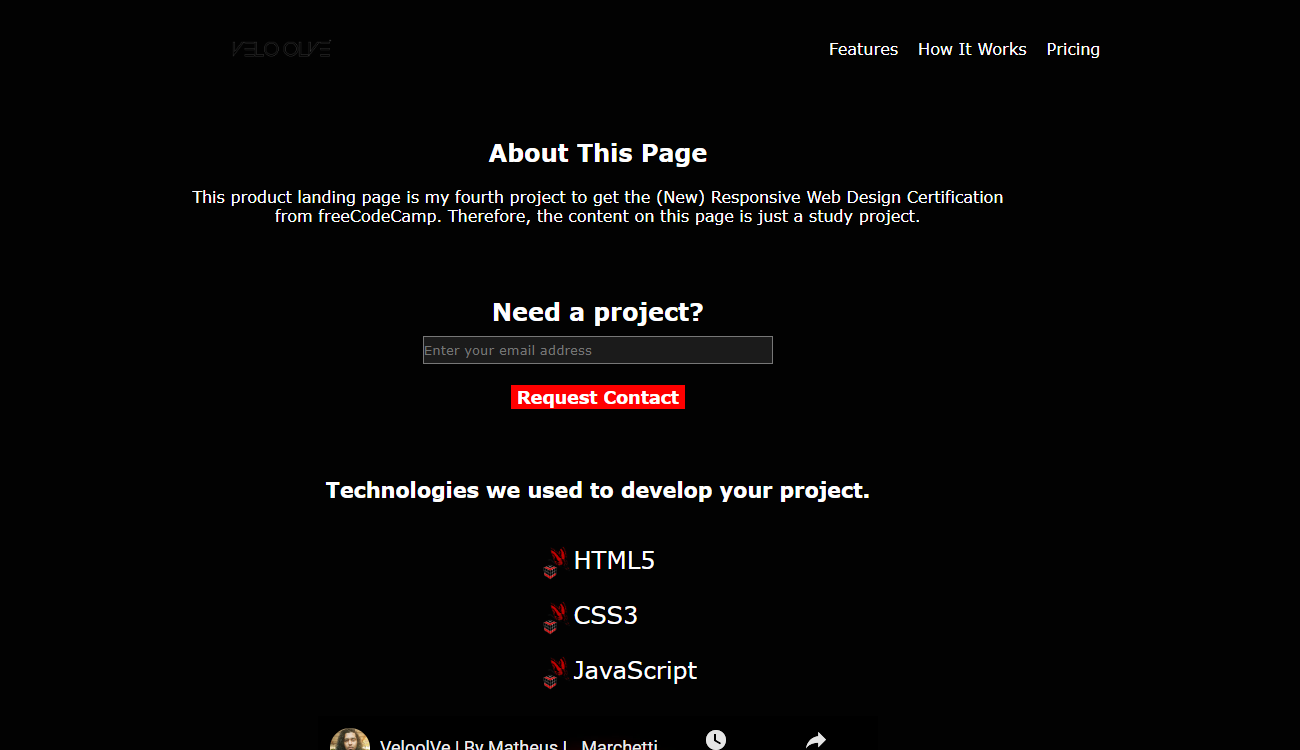
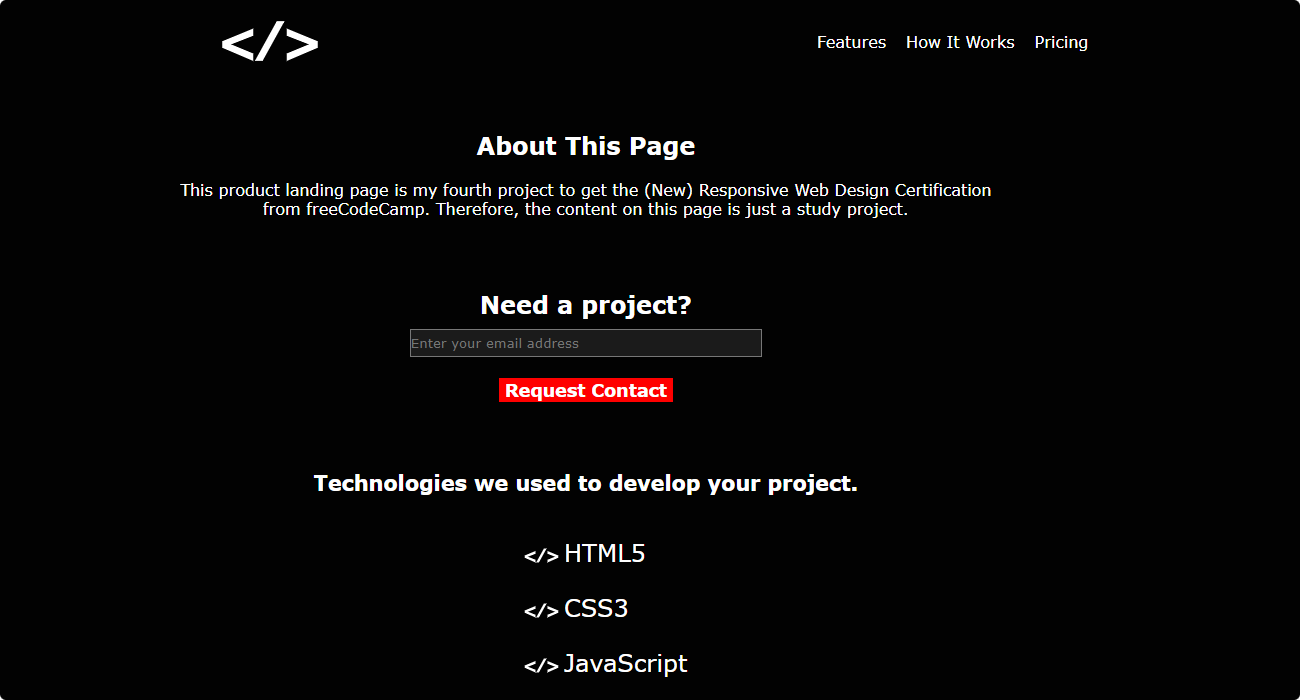
Updates

diff --git a/personal-portfolio-webpage/index.html b/personal-portfolio-webpage/index.html
@@ -4,13 +4,50 @@
     <meta charset="UTF-8">
     <meta http-equiv="X-UA-Compatible" content="IE=edge">
     <meta name="viewport" content="width=device-width, initial-scale=1.0">
-    <link rel="shortcut icon" href="images/simbolo-veloolve-28x28.ico" type="image/x-icon">
+    <link rel="shortcut icon" href="images/favicon.ico" type="image/x-icon">
     <link rel="stylesheet" href="style.css">
     <title>Personal Portfolio Webpage</title>
 </head>
 <body>
     <header>
-        <img src="images/simbolo-veloolve-512x512.png" alt="Logo VeloolVe" class="logo">
+        <?xml version="1.0" encoding="UTF-8" standalone="no"?>
+        <!-- Created with Inkscape (http://www.inkscape.org/) -->
+        <svg alt="Logo" class="logo"
+           width="1080"
+           height="1080"
+           viewBox="0 0 285.74999 285.75"
+           version="1.1"
+           id="svg5"
+           xmlns="http://www.w3.org/2000/svg"
+           xmlns:svg="http://www.w3.org/2000/svg">
+          <defs
+             id="defs2">
+            <rect
+               x="0"
+               y="0"
+               width="1080"
+               height="1080"
+               id="rect236" />
+          </defs>
+          <g
+             id="layer1">
+            <g
+               aria-label="&lt;/&gt;"
+               transform="matrix(0.26458333,0,0,0.26458333,-0.81136228,55.557118)"
+               id="text234"
+               style="font-weight:bold;font-size:613.333px;line-height:1.25;font-family:'Chakra Petch';-inkscape-font-specification:'Chakra Petch Bold';text-align:center;text-anchor:middle;white-space:pre">
+              <path
+                 d="M 27.866938,401.7803 V 331.86034 L 361.52009,193.86041 v 79.73329 l -234.2932,91.38662 v 3.68 l 234.2932,96.29328 v 79.73329 z"
+                 id="path404" />
+              <path
+                 d="m 616.66683,115.35378 h 83.41329 L 463.33358,544.68689 h -83.41329 z"
+                 id="path406" />
+              <path
+                 d="m 724.61303,464.9536 234.29321,-96.29328 v -3.68 L 724.61303,273.5937 V 193.86041 L 1058.2662,331.86034 V 401.7803 L 724.61303,544.68689 Z"
+                 id="path408" />
+            </g>
+          </g>
+        </svg>
         <nav id="navbar">
             <a href="#welcome-section" class="nav-link">About</a>
             <a href="#projects" class="nav-link">Projects</a>
@@ -28,19 +65,19 @@
         <section id="projects">
             <h2>Here are my projects</h2>
             <div class="grid-projects">
-                <a href="https://matheuslmarchetti.github.io/html-css/survey-form/" target="_blank" class="link-projects">
+                <a href="https://matheuslmarchetti.github.io/Responsive-Web-Design-Certification-freeCodeCamp/survey-form/" target="_blank" class="link-projects">
                     <img src="images/survey-form-project.png" alt="Survey Form Project" class="img-projects">
                     <h3 class="project-tile">Survey Form</h3>
                 </a>
-                <a href="https://matheuslmarchetti.github.io/html-css/tribute-page/" target="_blank" class="link-projects">
+                <a href="https://matheuslmarchetti.github.io/Responsive-Web-Design-Certification-freeCodeCamp/tribute-page/" target="_blank" class="link-projects">
                     <img src="images/tribute-page-project.png" alt="Tribute Page Project" class="img-projects">
                     <h3 class="project-tile">Tribute Page</h3>
                 </a>
-                <a href="https://matheuslmarchetti.github.io/html-css/technical-documentation-page/" target="_blank" class="link-projects">
+                <a href="https://matheuslmarchetti.github.io/Responsive-Web-Design-Certification-freeCodeCamp/technical-documentation-page/" target="_blank" class="link-projects">
                     <img src="images/technical-documentation-page-project.png" alt="Technical Documentation Page Project" class="img-projects">
                     <h3 class="project-tile">Technical Documentation Page</h3>
                 </a>
-                <a href="https://matheuslmarchetti.github.io/html-css/product-landing-page/" target="_blank" class="link-projects">
+                <a href="https://matheuslmarchetti.github.io/Responsive-Web-Design-Certification-freeCodeCamp/product-landing-page/" target="_blank" class="link-projects">
                     <img src="images/product-landing-page-project.png" alt="Product Landing Page Project" class="img-projects">
                     <h3 class="project-tile">Product Landing Page</h3>
                 </a>

diff --git a/personal-portfolio-webpage/style.css b/personal-portfolio-webpage/style.css
@@ -38,6 +38,10 @@ header {
     left: 1%;
 }
 
+#path404, #path406, #path408 {
+    fill: #ffffff;
+}
+
 #navbar {
     position: fixed;
     right: 5%;
